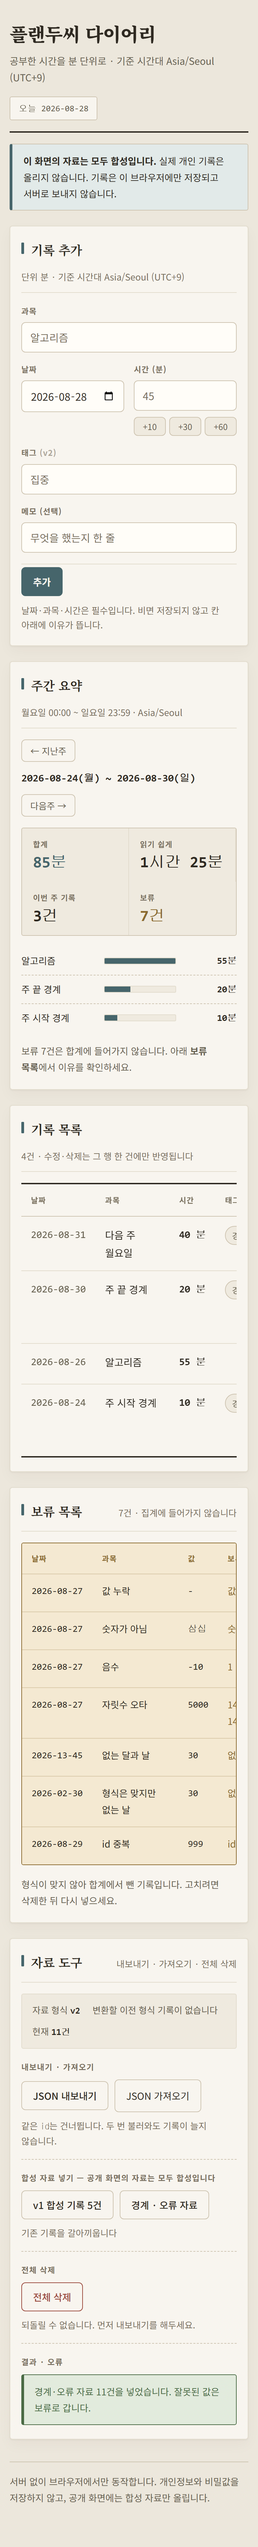
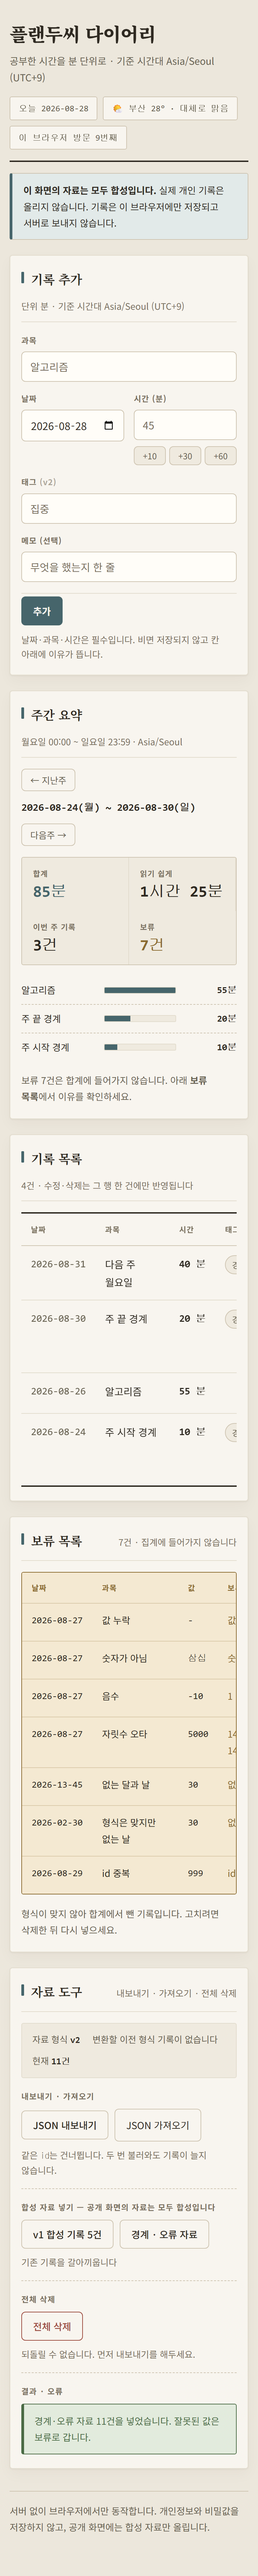
과제6 헤더에 부산 날씨 · 방문 횟수 배지 추가
체크리스트(검사 10개)와는 무관한 영역에만 붙였다 — 헤더 우표 줄에
배지 두 개를 더하는 것뿐, 기록·집계·검사 로직은 건드리지 않았다.

- 부산 날씨: Open-Meteo(무료·키 불필요)를 브라우저에서 바로 호출.
  "서버 없이 브라우저에서만 동작" 원칙과 맞고, 실패하면 배지를 그냥
  빼서 값을 지어내지 않는다 (core/weather.js)
- 이 브라우저 방문 횟수: localStorage로 정직하게 셈. 진짜 방문자 수는
  서버가 없어 알 수 없으니 "이 기기에서 연 횟수"라고 명확히 표기하고,
  "전체 삭제"(기록 삭제)와는 다른 키라 영향받지 않음 (core/visits.js)

node plandosee/tools/check.mjs → 10/10 PASS, lint/build 정상
증빙 화면 재촬영

diff --git a/plandosee/src/pages/Diary/Diary.jsx b/plandosee/src/pages/Diary/Diary.jsx
@@ -1,4 +1,4 @@
-import { useMemo, useRef, useState } from "react";
+import { useEffect, useMemo, useRef, useState } from "react";
 import DataTools from "../../components/DataTools/DataTools";
 import HeldList from "../../components/HeldList/HeldList";
 import RecordForm from "../../components/RecordForm/RecordForm";
@@ -6,6 +6,8 @@ import RecordList from "../../components/RecordList/RecordList";
 import WeeklySummary from "../../components/WeeklySummary/WeeklySummary";
 import { TIMEZONE_LABEL, UNIT, todayKey } from "../../core/validate";
 import { partition, summarize } from "../../core/weekly";
+import { bumpVisitCount } from "../../core/visits";
+import { fetchBusanWeather } from "../../core/weather";
 import edgeCases from "../../fixtures/edge-cases.json";
 import syntheticV1 from "../../fixtures/synthetic-v1.json";
 import {
@@ -46,6 +48,20 @@ function Diary() {
     const [editingId, setEditingId] = useState(null);
     const [message, setMessage] = useState(null);
     const formRef = useRef(null);
+
+    // 이 브라우저에서 연 횟수는 렌더 한 번당 딱 한 번만 셉니다 — 리렌더마다 세면 숫자가 부풀려집니다.
+    const [visitCount] = useState(() => bumpVisitCount());
+    const [weather, setWeather] = useState(null);
+
+    useEffect(() => {
+        let alive = true;
+        fetchBusanWeather().then((result) => {
+            if (alive) setWeather(result);
+        });
+        return () => {
+            alive = false;
+        };
+    }, []);
 
     /**
      * 행에서 "수정"을 누르면 값이 바뀌는 곳은 폼입니다.
@@ -178,7 +194,15 @@ function Diary() {
                         공부한 시간을 {UNIT} 단위로 · 기준 시간대 {TIMEZONE_LABEL}
                     </p>
                 </div>
-                <span css={s.stamp}>오늘 {todayKey()}</span>
+                <div css={s.stampRow}>
+                    <span css={s.stamp}>오늘 {todayKey()}</span>
+                    {weather && (
+                        <span css={s.stamp}>
+                            {weather.icon} 부산 {weather.temp}° · {weather.label}
+                        </span>
+                    )}
+                    {visitCount != null && <span css={s.stamp}>이 브라우저 방문 {visitCount}번째</span>}
+                </div>
             </header>
 
             <p css={s.syntheticNote}>

diff --git a/plandosee/src/core/weather.js b/plandosee/src/core/weather.js
@@ -1,0 +1,52 @@
+const BUSAN = { latitude: 35.1796, longitude: 129.0756 };
+
+// WMO 날씨 코드 → 한글 설명 · 아이콘. Open-Meteo 문서의 코드표에서 자주 나오는 것만 옮겼습니다.
+const CODE_MAP = {
+    0: ["맑음", "☀"],
+    1: ["대체로 맑음", "🌤"],
+    2: ["구름 조금", "⛅"],
+    3: ["흐림", "☁"],
+    45: ["안개", "🌫"],
+    48: ["안개", "🌫"],
+    51: ["약한 이슬비", "🌦"],
+    53: ["이슬비", "🌦"],
+    55: ["강한 이슬비", "🌦"],
+    61: ["약한 비", "🌧"],
+    63: ["비", "🌧"],
+    65: ["강한 비", "🌧"],
+    71: ["약한 눈", "🌨"],
+    73: ["눈", "🌨"],
+    75: ["강한 눈", "🌨"],
+    80: ["소나기", "🌦"],
+    81: ["소나기", "🌦"],
+    82: ["강한 소나기", "⛈"],
+    95: ["뇌우", "⛈"],
+    96: ["뇌우 · 우박", "⛈"],
+    99: ["뇌우 · 우박", "⛈"],
+};
+
+/**
+ * 부산 현재 날씨. 키가 필요 없는 공개 API(Open-Meteo)를 브라우저에서 바로 부릅니다 —
+ * "서버 없이 브라우저에서만 동작한다"는 이 프로젝트의 설계 원칙과 맞습니다.
+ *
+ * 실패하면 null을 돌려줍니다. 화면은 그때 배지를 아예 빼고, 지어낸 값을 보여주지 않습니다.
+ */
+export const fetchBusanWeather = async () => {
+    const url =
+        `https://api.open-meteo.com/v1/forecast?latitude=${BUSAN.latitude}&longitude=${BUSAN.longitude}` +
+        `&current=temperature_2m,weather_code&timezone=Asia%2FSeoul`;
+
+    try {
+        const res = await fetch(url);
+        if (!res.ok) return null;
+
+        const data = await res.json();
+        const temp = data?.current?.temperature_2m;
+        if (typeof temp !== "number") return null;
+
+        const [label, icon] = CODE_MAP[data?.current?.weather_code] ?? ["-", "🌡"];
+        return { temp: Math.round(temp), label, icon };
+    } catch {
+        return null;
+    }
+};

diff --git a/plandosee/src/core/visits.js b/plandosee/src/core/visits.js
@@ -1,0 +1,19 @@
+const KEY = "plandosee.visits.v1";
+
+/**
+ * 이 브라우저에서 이 화면을 연 횟수.
+ *
+ * 서버가 없어서 진짜 방문자 수(다른 사람 포함)는 알 수 없습니다.
+ * 없는 걸 있는 척 만들지 않고, 이 기기·이 브라우저 기준의 정직한 숫자만 셉니다.
+ * 기록(`plandosee.records.v2`)과는 다른 키라 "전체 삭제"에는 영향받지 않습니다 —
+ * 방문 횟수는 그 날 적은 기록이 아니라 이 화면을 연 이력이라서입니다.
+ */
+export const bumpVisitCount = () => {
+    try {
+        const next = Number(window.localStorage.getItem(KEY) ?? "0") + 1;
+        window.localStorage.setItem(KEY, String(next));
+        return next;
+    } catch {
+        return null;
+    }
+};

diff --git a/plandosee/src/pages/Diary/styles.js b/plandosee/src/pages/Diary/styles.js
@@ -42,6 +42,18 @@ export const subtitle = css`
     line-height: 1.7;
 `;
 
+/** 우표 여러 장을 붙인 것처럼 — 늘어도 난잡해 보이지 않게 한 줄로 감쌉니다. */
+export const stampRow = css`
+    display: flex;
+    flex-wrap: wrap;
+    gap: 8px;
+    justify-content: flex-end;
+
+    @media (max-width: 640px) {
+        justify-content: flex-start;
+    }
+`;
+
 export const stamp = css`
     padding: 5px 12px;
     border: 1px solid var(--line);
